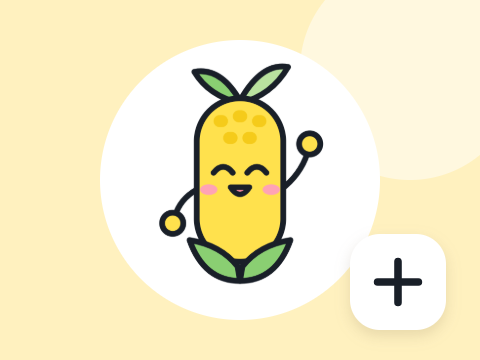
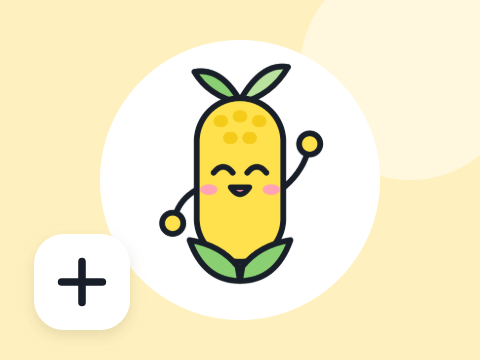
lessons: make-lesson sample screen from the corn lesson, cover marks moved off the time badge, step texts matched to current UI (new-set entry, wobble levels, part chip + heart, group chips)

Changed region(s): [[0.7188, 0.6417, 0.9375, 0.9167], [0.0625, 0.6417, 0.2812, 0.9167]]

diff --git a/src/constants/lessons.ts b/src/constants/lessons.ts
@@ -26,7 +26,7 @@ export const LESSONS: Lesson[] = [
     id: 'first-set', group: 'app', title: '첫 세트 · 첫 칸 그리기', summary: '세트를 만들고 첫 칸을 완성해요', minutes: 2,
     cover: require('../../assets/lessons/first-set/cover.png'),
     steps: [
-      { title: '세트 만들기', video: require('../../assets/lessons/first-set/step1.mp4'), body: '홈의 노란 + 를 누르고 만들기를 누르면 세트가 생기고 01번 칸이 바로 열려요. 세트 하나가 카카오에 한 번 제안하는 묶음이에요.' },
+      { title: '세트 만들기', video: require('../../assets/lessons/first-set/step1.mp4'), body: '홈의 새 세트 만들기(또는 내 세트의 노란 +)를 누르고 만들기를 누르면 세트가 생기고 01번 칸이 바로 열려요. 세트 하나가 카카오에 한 번 제안하는 묶음이에요.' },
       { title: '그리기', video: require('../../assets/lessons/first-set/step2.mp4'), body: '위 굵기 막대로 선 굵기를 정하고 펜으로 그려요. 콘처럼 몸 → 새싹 잎 → 손 → 아래 잎 → 얼굴 순서로 큰 모양부터 그리면 쉬워요. 두 손가락으로 톡 치면 되돌리기예요.' },
       { title: '저장하고 보드로', video: require('../../assets/lessons/first-set/step3.mp4'), body: '노란 저장을 누르고 뒤로 가면 보드에 01번이 올라가 있어요. 보라 테두리 칸이 다음 차례예요.' },
       { title: '다음 칸은 이어서', video: require('../../assets/lessons/first-set/step4.mp4'), body: '02번을 누르면 「이전 칸 그림으로 시작」이 떠요. 누르면 같은 캐릭터에서 이어 그릴 수 있어요.' },
@@ -50,10 +50,10 @@ export const LESSONS: Lesson[] = [
     id: 'motion', group: 'app', title: '움직이기 · 손그림 떨림', summary: '효과를 고르면 바로 움직여요', minutes: 3,
     cover: require('../../assets/lessons/motion/cover.png'),
     steps: [
-      { title: '효과 고르기', video: require('../../assets/lessons/motion/step1.mp4'), body: '위의 움직이기를 누르고 효과(통통·둥실·까딱…)를 고르면 바로 움직여요. 묶음 칩으로 등장·동작·강조를 나눠 볼 수 있어요.' },
+      { title: '효과 고르기', video: require('../../assets/lessons/motion/step1.mp4'), body: '위의 움직이기를 누르고 효과(뿅·통통·둥실…)를 고르면 바로 움직여요. 묶음 칩으로 등장·동작·강조·조합을 나눠 볼 수 있어요.' },
       { title: '세기 · 속도', video: require('../../assets/lessons/motion/step2.mp4'), body: '캔버스 위 막대로 세기와 속도를 맞춰요. 점선 상자를 넘으면 칸 밖으로 잘린다는 뜻이에요.' },
-      { title: '손그림 떨림', video: require('../../assets/lessons/motion/step3.mp4'), body: '효과 아래 손그림 떨림을 켜면 선이 살아 있는 듯 떨려요. 효과와 함께 써도 되고, 떨림만 써도 돼요.' },
-      { title: '부분만 움직이기', video: require('../../assets/lessons/motion/step4.mp4'), body: '부분만 움직이기에서 레이어를 고르면 그 부분만 따로 흔들려요(PRO). 회전·이동·크기와 세기를 정해요.' },
+      { title: '손그림 떨림', video: require('../../assets/lessons/motion/step3.mp4'), body: '아래로 내려 손그림 떨림을 약하게·보통·강하게 중에서 골라요. 선이 살아 있는 듯 떨려요. 효과와 함께 써도 되고, 떨림만 써도 돼요.' },
+      { title: '부분만 움직이기', video: require('../../assets/lessons/motion/step4.mp4'), body: '위의 부분 칩을 누르고 하트를 그린 레이어 2를 고르면 그 부분만 따로 움직여요(PRO). 손 흔들기·통통 튀기 같은 바로 쓰기로 시작하고, 회전·이동·크기와 세기를 고쳐요.' },
     ],
     points: ['효과는 고르는 즉시 칸에 들어가요', '점선 밖은 잘려요 — 세기를 줄여요', '떨림은 무료, 어떤 효과와도 함께'],
     tryIt: { label: '이어서 그리기', action: 'continue' },
